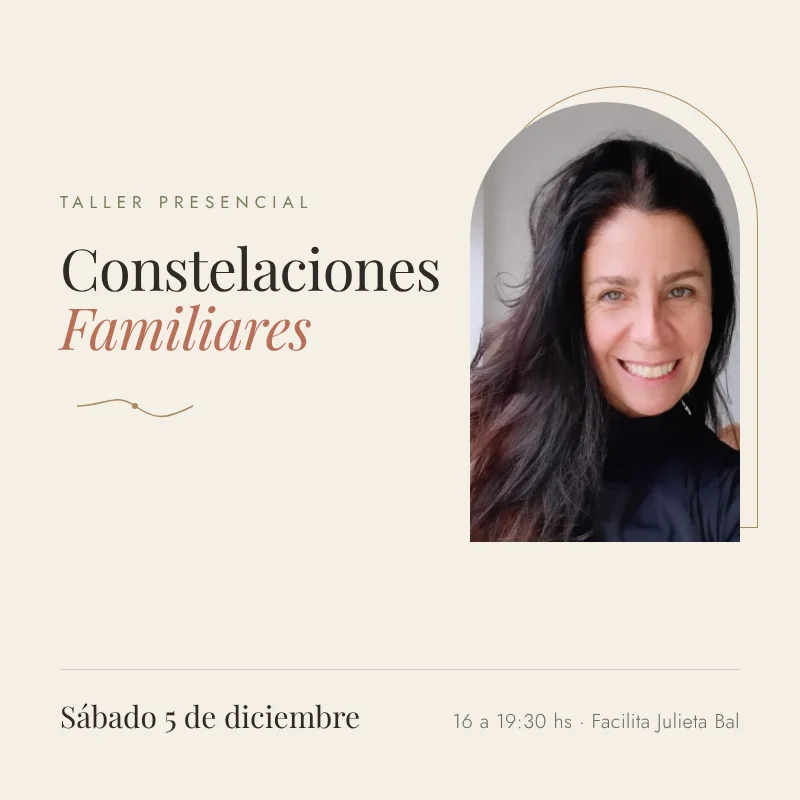
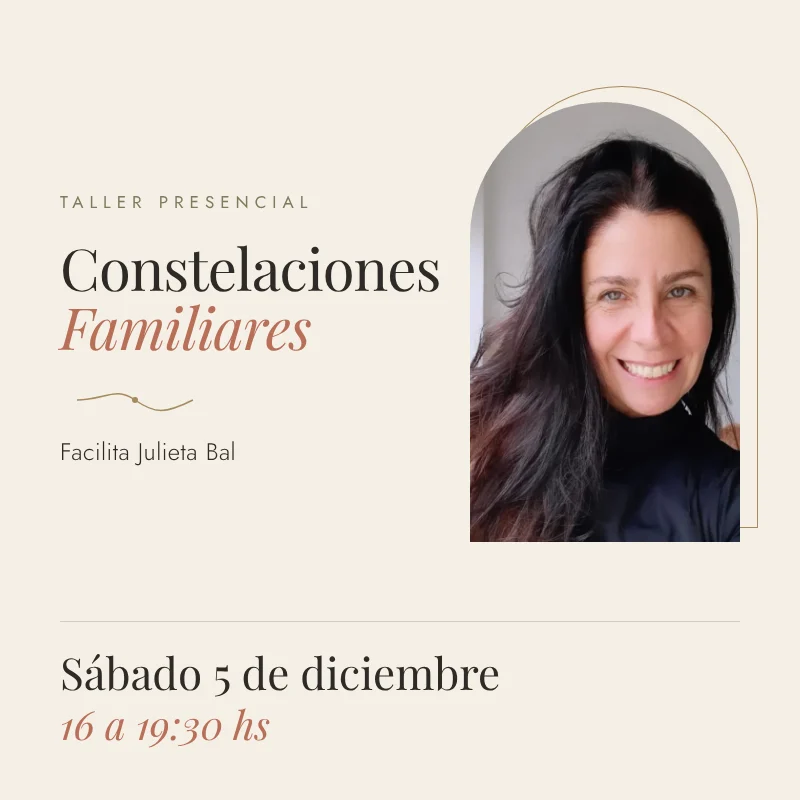
Constelaciones: fecha y horario más grandes en celular, portada con horario destacado, pie de foto separado del marco
Claude-Session: https://claude.ai/code/session_01BHQSh9eXBQRDNz5kqKbAoB

diff --git a/constelaciones-familiares.html b/constelaciones-familiares.html
@@ -105,18 +105,20 @@
         .hero h1 { font-size: 64px; line-height: 1.05; letter-spacing: -1px; margin-bottom: 28px; }
         .hero .bajada { font-size: 19px; color: var(--gris); max-width: 460px; margin-bottom: 40px; }
         .hero-fecha { border-top: 1px solid var(--linea); border-bottom: 1px solid var(--linea); padding: 18px 0; margin-bottom: 36px; display: flex; gap: 34px; flex-wrap: wrap; }
-        .hero-fecha div { font-size: 14px; letter-spacing: 0.5px; }
-        .hero-fecha strong { display: block; font-family: 'Playfair Display', serif; font-weight: 400; font-size: 21px; letter-spacing: 0; }
+        .hero-fecha div { font-size: 17px; letter-spacing: 0.3px; }
+        .hero-fecha strong { display: block; font-family: 'Playfair Display', serif; font-weight: 400; font-size: 24px; letter-spacing: 0; }
 
         .arco { position: relative; }
+        .arco-img { position: relative; z-index: 0; }
         .arco img {
             width: 100%;
+            height: auto;
             aspect-ratio: 4 / 5;
             object-fit: cover;
             border-radius: 999px 999px 4px 4px;
             display: block;
         }
-        .arco::before {
+        .arco-img::before {
             content: '';
             position: absolute;
             inset: -14px -14px 14px 14px;
@@ -124,7 +126,7 @@
             border-radius: 999px 999px 4px 4px;
             z-index: -1;
         }
-        .arco figcaption { margin-top: 18px; font-size: 13px; letter-spacing: 1px; color: var(--gris); text-align: right; }
+        .arco figcaption { margin-top: 26px; font-size: 15px; letter-spacing: 1px; color: var(--gris); text-align: right; }
 
         .btn {
             display: inline-block;
@@ -163,7 +165,7 @@
 
         /* --- FACILITADORA --- */
         .facilita-grid { display: grid; grid-template-columns: 0.75fr 1.25fr; gap: 70px; align-items: center; }
-        .facilita-grid img { width: 100%; aspect-ratio: 3 / 4; object-fit: cover; border-radius: 4px; display: block; filter: saturate(0.9); }
+        .facilita-grid img { width: 100%; height: auto; aspect-ratio: 3 / 4; object-fit: cover; border-radius: 4px; display: block; filter: saturate(0.9); }
         .facilita-grid h2 { font-size: 46px; line-height: 1.1; margin-bottom: 22px; }
         .facilita-grid p { font-size: 17px; color: #4A443E; margin-bottom: 18px; }
 
@@ -172,9 +174,9 @@
         .inscripcion .eyebrow { color: var(--oro); }
         .inscripcion h2 { font-size: 44px; line-height: 1.15; margin-bottom: 46px; }
         .datos { display: grid; grid-template-columns: repeat(3, 1fr); max-width: 780px; margin: 0 auto 50px; border-top: 1px solid rgba(245,239,230,0.2); border-bottom: 1px solid rgba(245,239,230,0.2); }
-        .datos div { padding: 26px 14px; font-size: 14px; color: #CFC6BA; }
+        .datos div { padding: 26px 14px; font-size: 16px; color: #CFC6BA; }
         .datos div + div { border-left: 1px solid rgba(245,239,230,0.2); }
-        .datos strong { display: block; font-family: 'Playfair Display', serif; font-weight: 400; font-size: 21px; color: var(--lino); margin-bottom: 4px; }
+        .datos strong { display: block; font-family: 'Playfair Display', serif; font-weight: 400; font-size: 24px; color: var(--lino); margin-bottom: 4px; }
         .inscripcion .btn { background: var(--lino); color: var(--carbon); }
         .inscripcion .btn:hover { background: var(--arcilla); color: var(--lino); }
         .inscripcion .nota { margin-top: 26px; font-size: 14px; color: #A9A096; }
@@ -246,7 +248,7 @@
                 <a href="#que-es" class="link-sutil">Conocer más ↓</a>
             </div>
             <figure class="arco">
-                <img src="constelaciones-julieta-hero.webp" alt="Julieta Bal, facilitadora de Constelaciones Familiares" width="738" height="922">
+                <div class="arco-img"><img src="constelaciones-julieta-hero.webp" alt="Julieta Bal, facilitadora de Constelaciones Familiares" width="738" height="922"></div>
                 <figcaption>Facilita Julieta Bal</figcaption>
             </figure>
         </div>
